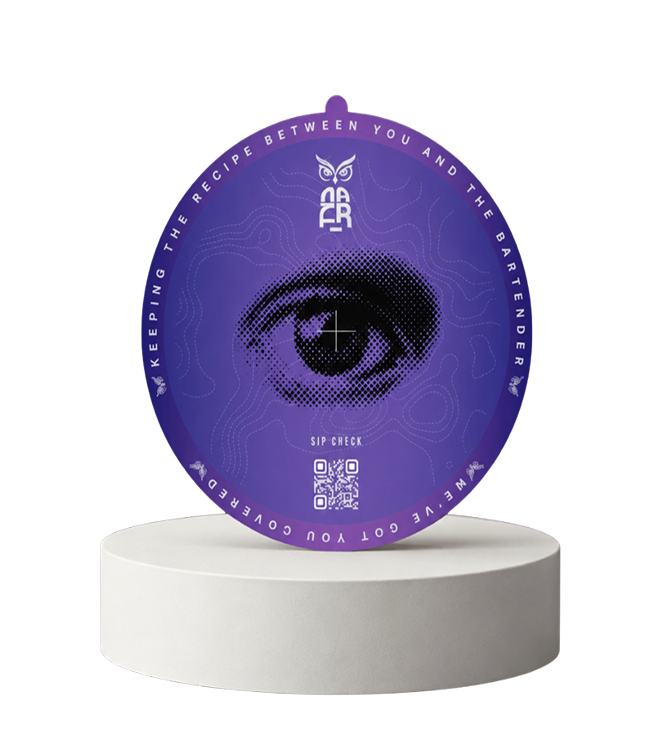
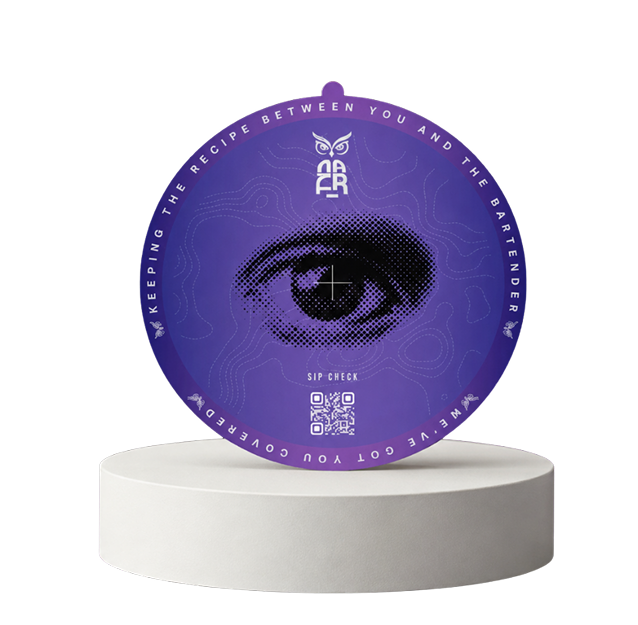
fix(shop): update On Me variant images, unstretch Sip Check, enlarge Shop the bundle CTA

diff --git a/src/components/shop/ShopProductsSection.tsx b/src/components/shop/ShopProductsSection.tsx
@@ -57,21 +57,21 @@ const PRODUCTS: ProductData[] = [
         thumbnails: [
           "/images/pinkspray.svg",
           "/onme/Sip Check  (4) 1.png",
-          "/onme/Frame 1073716575.png",
-          "/onme/image 81.png",
+          "/onme/pinkbagspray.png",
+          "/onme/pinkimageforp.png",
         ],
       },
       {
-        id: "silver",
-        name: "SILVER",
-        hex: "#B8B8B8",
+        id: "white",
+        name: "WHITE",
+        hex: "#FFFFFF",
         mainImage: "/images/whitespray.svg",
         swatchImage: "/images/spray-white.webp",
         thumbnails: [
           "/images/whitespray.svg",
           "/onme/Sip Check  (4) 1.png",
-          "/onme/Frame 1073716575.png",
-          "/onme/image 81.png",
+          "/onme/Frame 1073716575 white.png",
+          "/onme/image 81white.png",
         ],
       },
     ],
@@ -234,7 +234,7 @@ function ProductCard({ product }: { product: ProductData }) {
           {/* Center Product Stage - fixed aspect ratio to prevent stretching/cropping */}
           <div className="relative z-10 w-full flex-1 flex flex-col items-center justify-center py-6 sm:py-8">
             <div className="relative z-20 w-[260px] sm:w-[320px] md:w-[360px] aspect-square flex items-center justify-center transition-all duration-300 transform hover:scale-105">
-              <div className={`relative w-full h-full ${product.id === "sip-check" ? "scale-x-[1.14]" : ""}`}>
+              <div className="relative w-full h-full">
                 <Image
                   src={activeImage}
                   alt={product.title}
@@ -253,11 +253,10 @@ function ProductCard({ product }: { product: ProductData }) {
               <button
                 key={idx}
                 onClick={() => setSelectedImageIndex(idx)}
-                className={`relative w-[60px] sm:w-[72px] md:w-[80px] h-[54px] sm:h-[64px] md:h-[70px] rounded-[10px] sm:rounded-[12px] overflow-hidden bg-white/80 transition-all border-2 ${
-                  selectedImageIndex === idx
-                    ? "border-black shadow-sm"
-                    : "border-transparent hover:border-black/20 opacity-80 hover:opacity-100"
-                }`}
+                className={`relative w-[60px] sm:w-[72px] md:w-[80px] h-[54px] sm:h-[64px] md:h-[70px] rounded-[10px] sm:rounded-[12px] overflow-hidden bg-white/80 transition-all border-2 ${selectedImageIndex === idx
+                  ? "border-black shadow-sm"
+                  : "border-transparent hover:border-black/20 opacity-80 hover:opacity-100"
+                  }`}
               >
                 <Image
                   src={thumb}
@@ -357,11 +356,10 @@ function ProductCard({ product }: { product: ProductData }) {
                     <button
                       key={color.id}
                       onClick={() => handleVariantChange(idx)}
-                      className={`flex-1 sm:flex-initial flex items-center justify-center gap-2.5 px-4 sm:px-5 py-2 rounded-full text-[13px] uppercase transition-all cursor-pointer ${
-                        selectedColorIndex === idx
-                          ? "bg-white text-black font-bold border-2 border-black shadow-xs"
-                          : "bg-white text-black/75 font-medium border border-black/15 hover:border-black/35"
-                      }`}
+                      className={`flex-1 sm:flex-initial flex items-center justify-center gap-2.5 px-4 sm:px-5 py-2 rounded-full text-[13px] uppercase transition-all cursor-pointer ${selectedColorIndex === idx
+                        ? "bg-white text-black font-bold border-2 border-black shadow-xs"
+                        : "bg-white text-black/75 font-medium border border-black/15 hover:border-black/35"
+                        }`}
                     >
                       {/* Product bottle swatch image - Comments #10 and #11 */}
                       <div className="relative w-4 h-6 shrink-0 flex items-center justify-center">

diff --git a/src/components/ui/ShopHero.tsx b/src/components/ui/ShopHero.tsx
@@ -224,7 +224,6 @@ export function ShopHero() {
           </div>
 
           <div className="flex items-center gap-4 sm:gap-6 md:gap-10 text-[9px] sm:text-[10px] md:text-[11px]">
-            <span>GLOWS IN THE DARK</span>
             <span>MADE IN INDIA</span>
           </div>
         </div>
@@ -288,18 +287,18 @@ export function ShopHero() {
         {/* Bottom Action Row */}
         <div className="w-full pt-3 sm:pt-4 md:pt-6 flex flex-col md:flex-row items-start md:items-center justify-between gap-3 sm:gap-4 z-20">
           <div className="flex flex-col gap-1.5 sm:gap-2">
-            <div className="flex items-center gap-3 sm:gap-4">
+            <div className="flex items-center gap-4 sm:gap-6">
               <Link
                 href="#bundle-pack"
                 style={{
                   fontFamily: "var(--font-inter), sans-serif",
-                  fontWeight: 500,
+                  fontWeight: 600,
                   lineHeight: "100%",
                   letterSpacing: "0%",
                   color: "#090507",
                   background: "#FFF9FC",
                 }}
-                className="px-4 py-2 sm:px-5 sm:py-2.5 text-[10px] sm:text-[11px] rounded-full hover:bg-white active:scale-95 transition-all shadow-sm font-medium"
+                className="px-6 py-3 sm:px-8 sm:py-3.5 md:px-9 md:py-4 text-[13px] sm:text-[15px] md:text-[16px] rounded-full hover:bg-white hover:shadow-lg active:scale-95 transition-all shadow-md font-semibold cursor-pointer"
               >
                 Shop the bundle
               </Link>
@@ -313,7 +312,7 @@ export function ShopHero() {
                   letterSpacing: "0%",
                   color: "#FFF9FC",
                 }}
-                className="text-[11px] sm:text-[12px] hover:text-white underline-offset-4 hover:underline transition-colors"
+                className="text-[13px] sm:text-[14px] md:text-[15px] hover:text-white underline-offset-4 hover:underline transition-colors"
               >
                 See each tool
               </Link>
